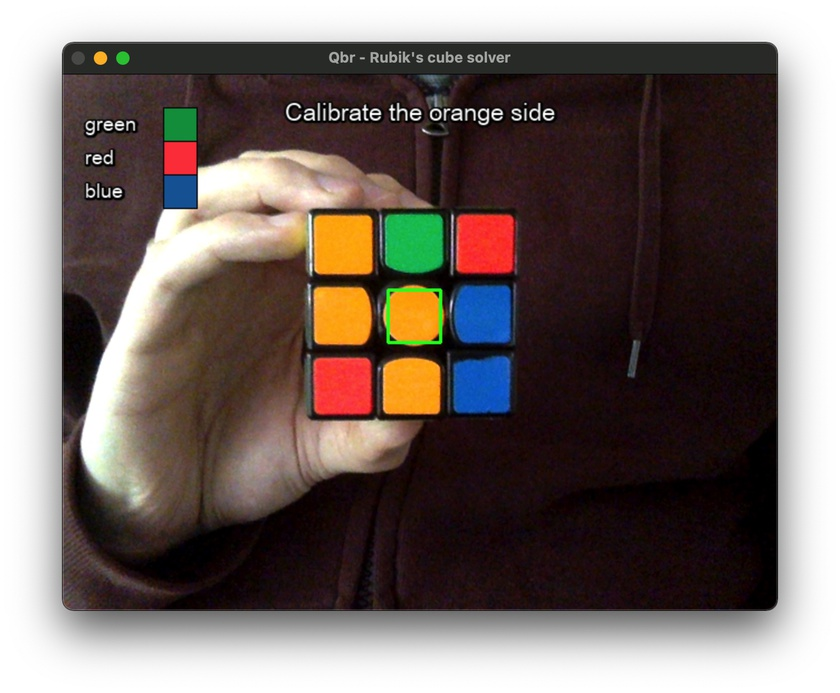
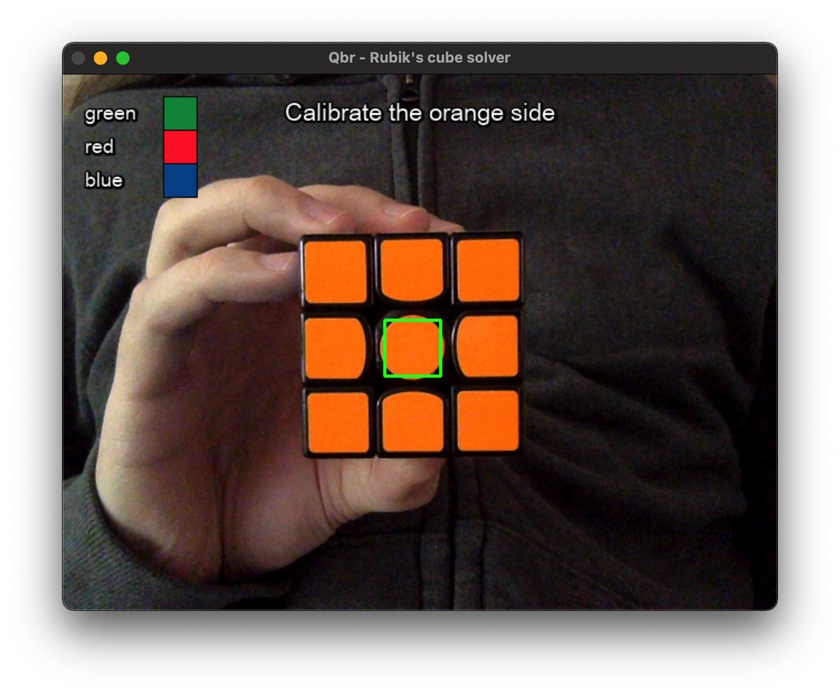
feat: use grey to indicate a placeholder color, showing difference with white

diff --git a/src/video.py b/src/video.py
@@ -8,6 +8,7 @@ from config import config
 from helpers import get_next_locale
 import i18n
 from constants import (
+    COLOR_PLACEHOLDER,
     LOCALES,
     ROOT_DIR,
     CUBE_PALETTE,
@@ -394,7 +395,7 @@ class Webcam:
                     x2 = int(x1 + MINI_STICKER_AREA_TILE_SIZE)
                     y2 = int(y1 + MINI_STICKER_AREA_TILE_SIZE)
 
-                    foreground_color = (255, 255, 255)
+                    foreground_color = COLOR_PLACEHOLDER
                     if side in self.result_state:
                         foreground_color = color_detector.get_prominent_color(self.result_state[side][index])
 

diff --git a/src/colordetection.py b/src/colordetection.py
@@ -6,7 +6,7 @@ import numpy as np
 import cv2
 from helpers import ciede2000, bgr2lab
 from config import config
-from constants import CUBE_PALETTE
+from constants import CUBE_PALETTE, COLOR_PLACEHOLDER
 
 class ColorDetection:
 
@@ -33,7 +33,7 @@ class ColorDetection:
         for color_name, color_bgr in self.cube_color_palette.items():
             if tuple([int(c) for c in bgr]) == color_bgr:
                 return self.prominent_color_palette[color_name]
-        return self.prominent_color_palette['white']
+        return COLOR_PLACEHOLDER
 
     def get_dominant_color(self, roi):
         """

diff --git a/src/constants.py b/src/constants.py
@@ -7,6 +7,9 @@ import os
 # Global
 ROOT_DIR = os.path.dirname(os.path.abspath(__file__))
 
+# Colors
+COLOR_PLACEHOLDER = (150, 150, 150)
+
 # i18n
 LOCALES = {
     'en': 'English',
